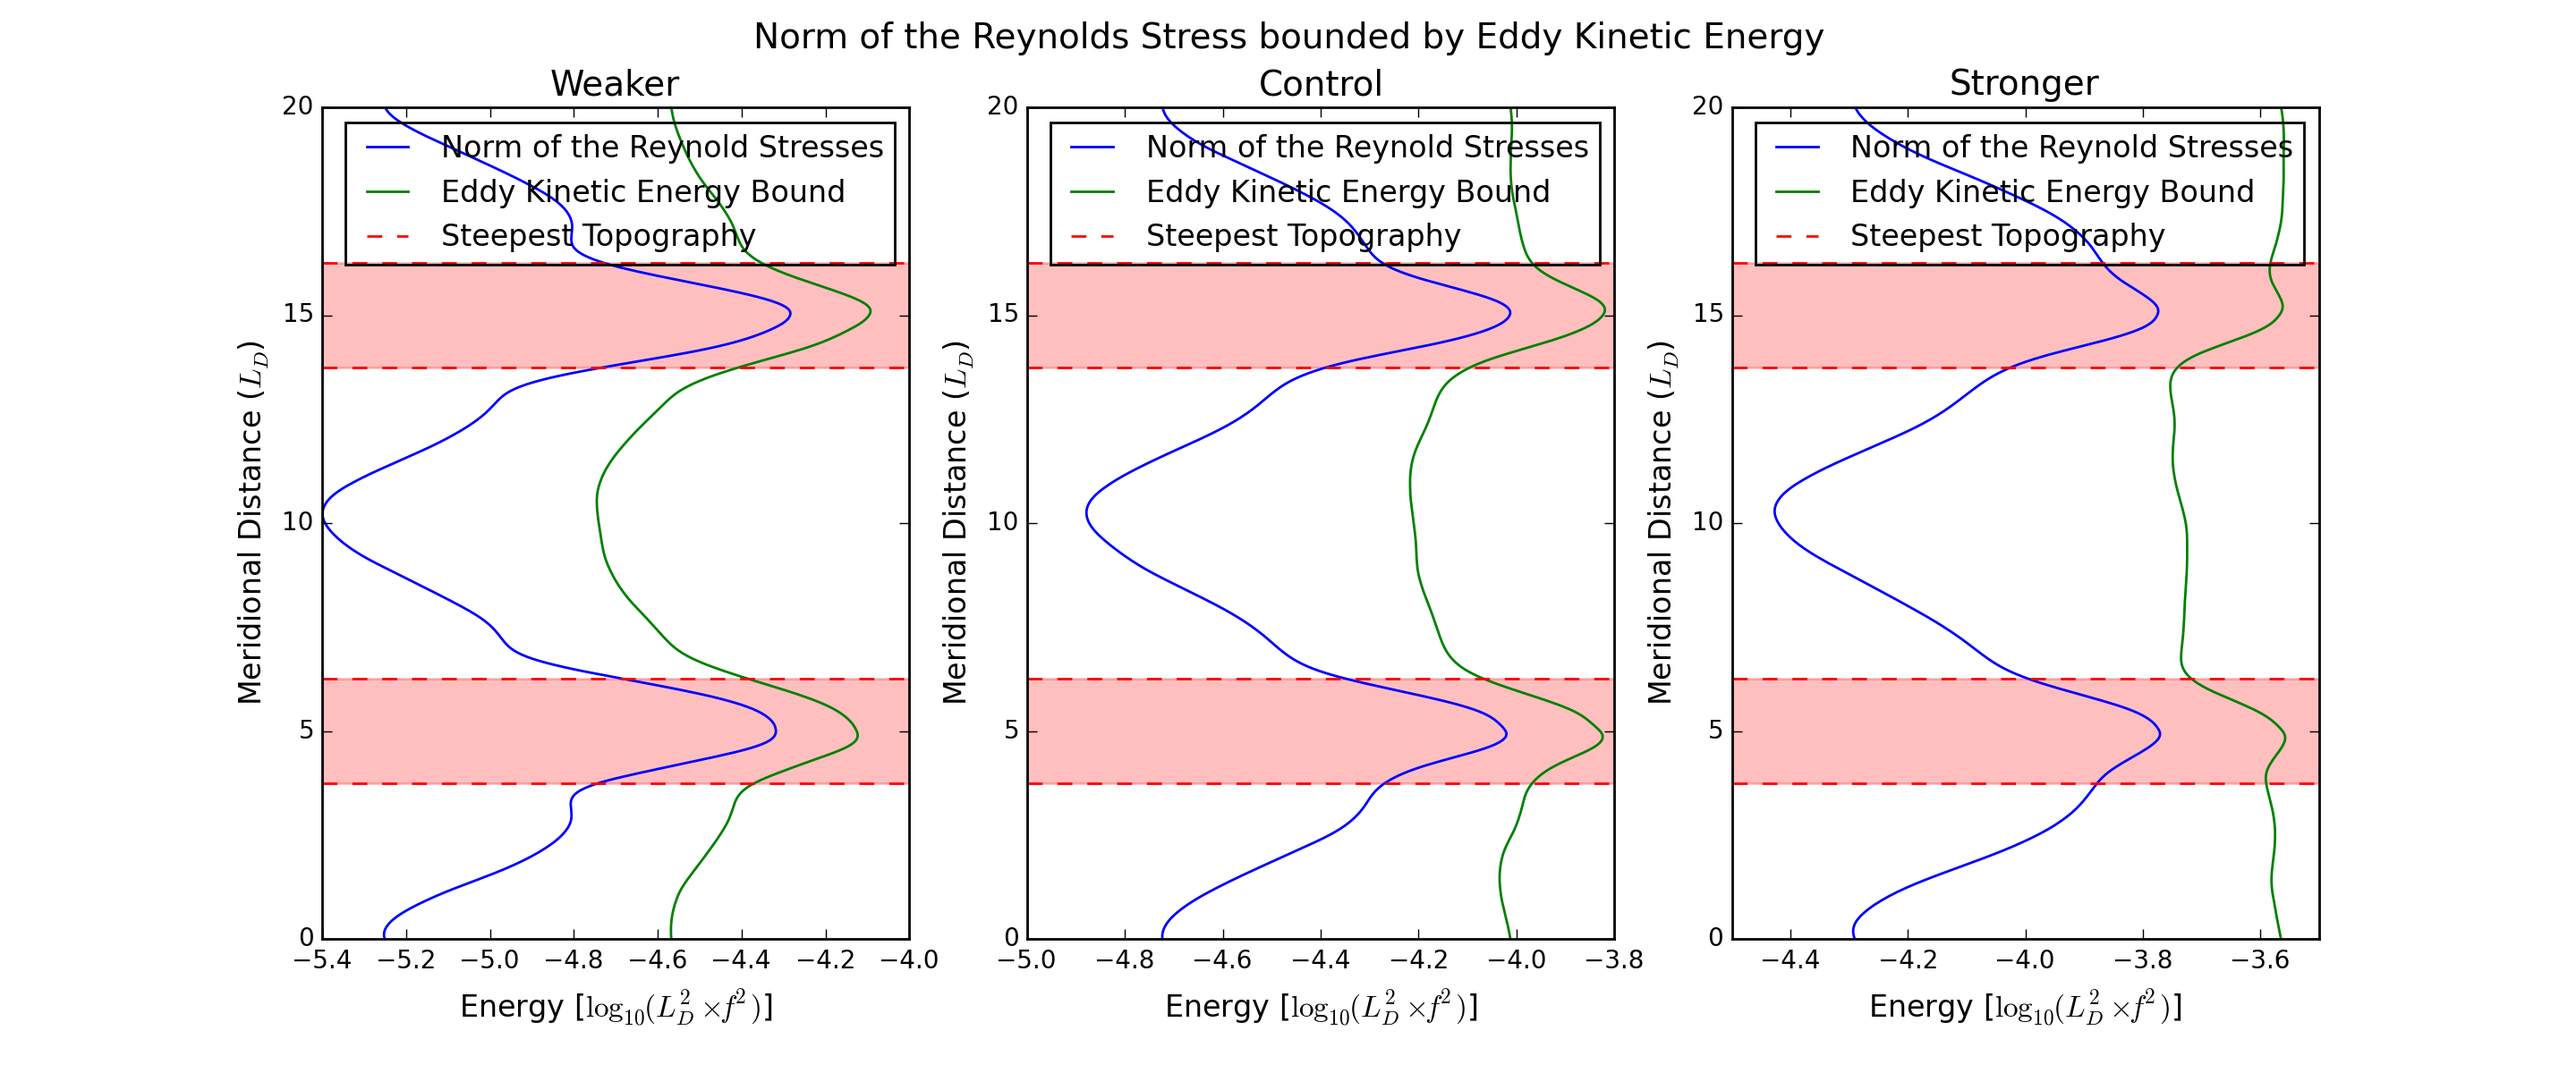
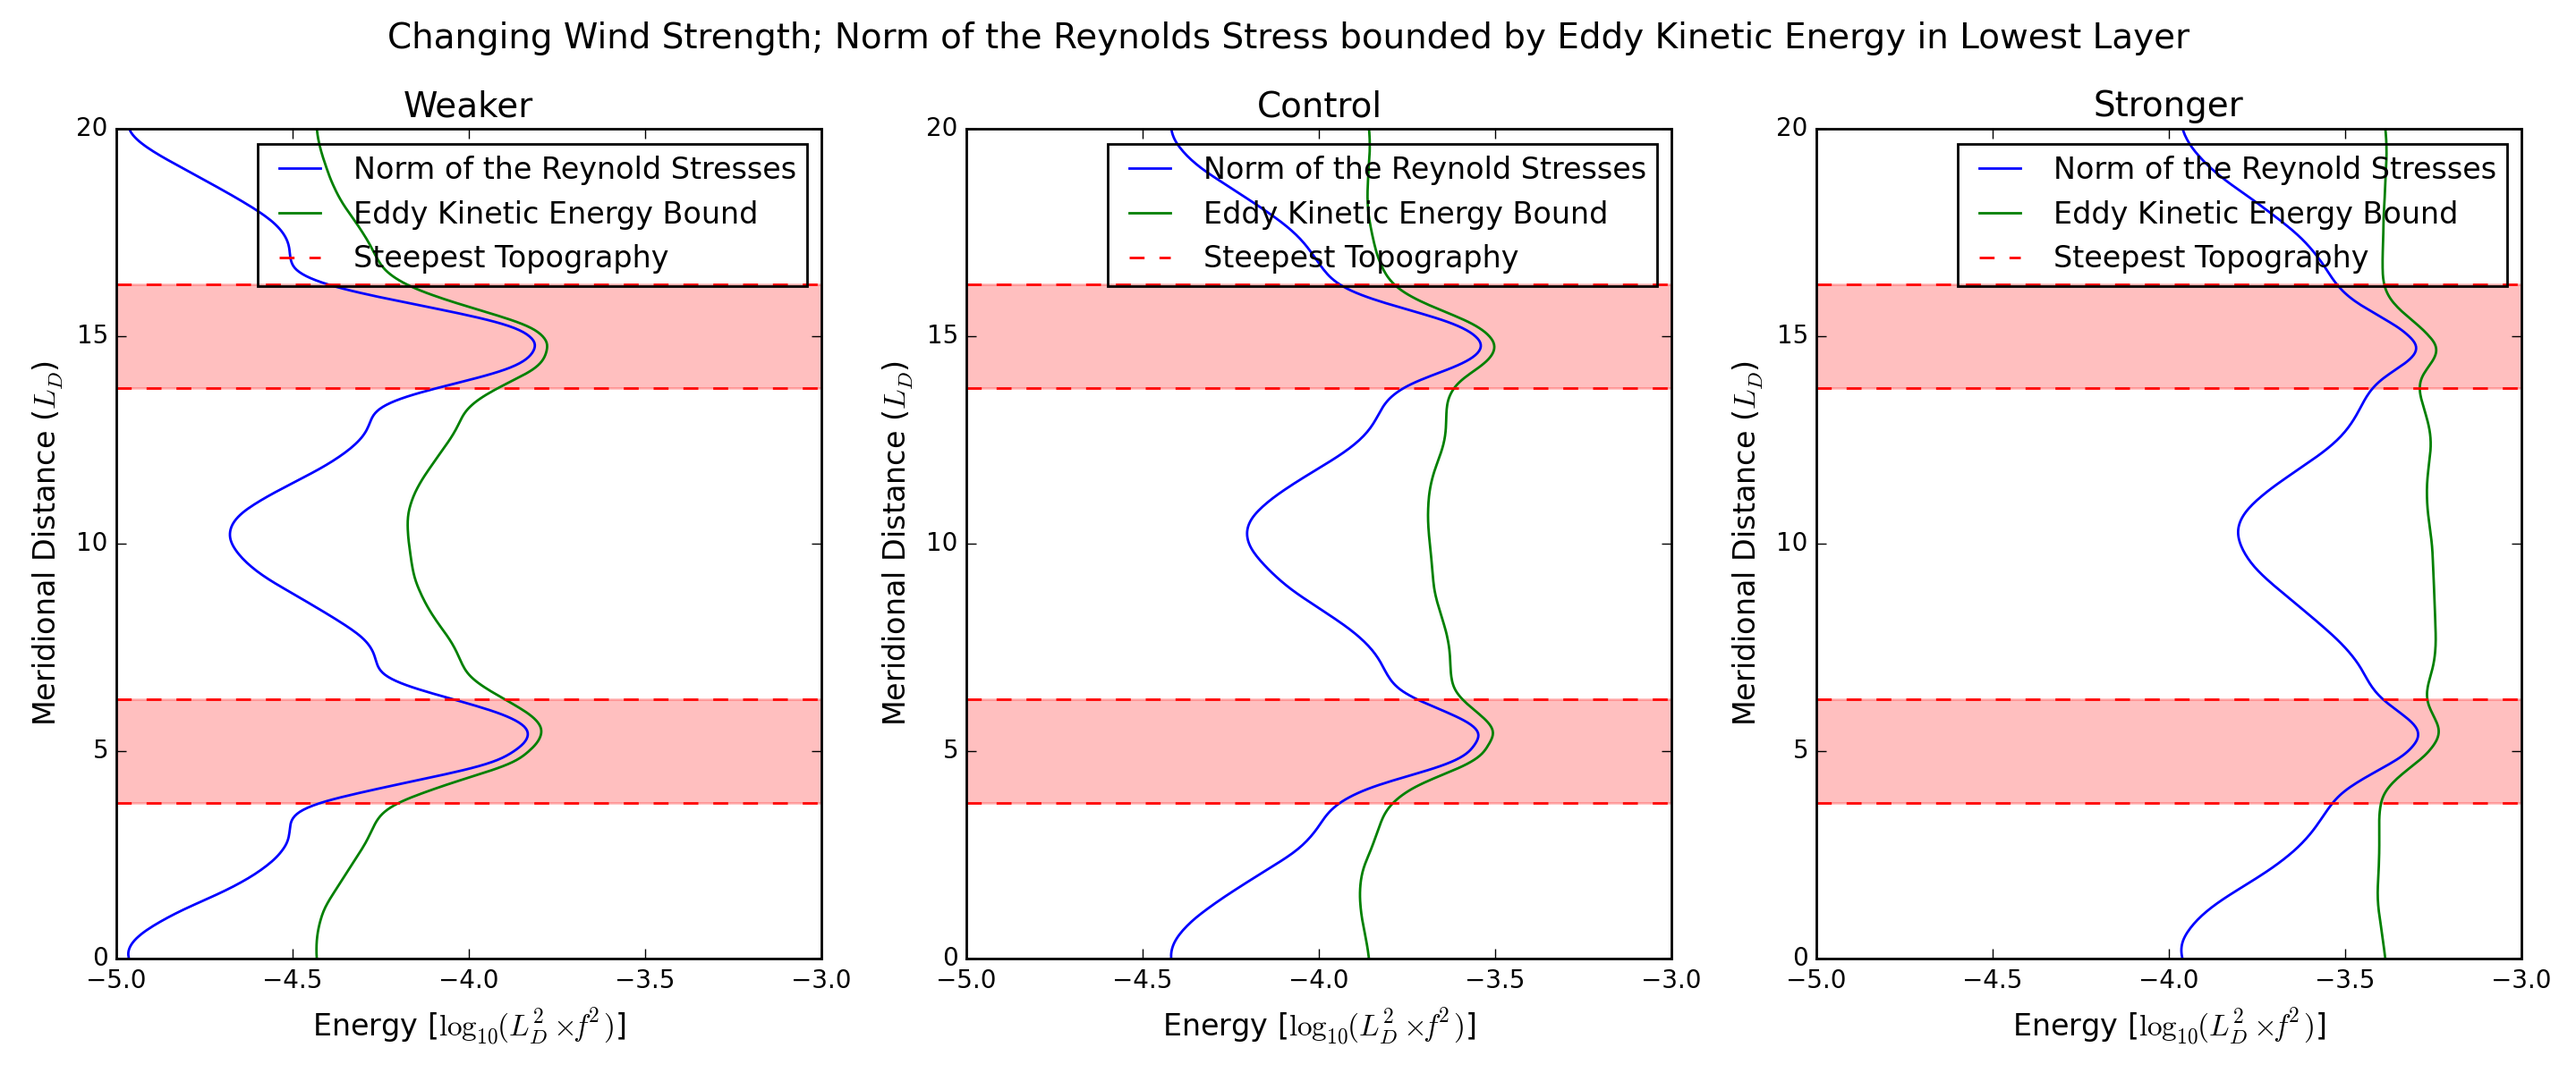
updated some stuff

diff --git a/thesis.tex b/thesis.tex
@@ -91,7 +91,73 @@ bottom=30mm,
 
 \begin{document}
 
-\maketitle
+
+\begin{titlepage}
+	
+	\newcommand{\HRule}{\rule{\linewidth}{0.5mm}} % Defines a new command for the horizontal lines, change thickness here
+	
+	\center % Center everything on the page
+	
+	
+	%----------------------------------------------------------------------------------------
+	%	LOGO SECTION
+	%----------------------------------------------------------------------------------------
+	
+	\includegraphics[width=5cm]{oxcrest}\\[1cm] % Include a department/university logo - this will require the graphicx package
+	
+	%----------------------------------------------------------------------------------------
+	
+	
+	%----------------------------------------------------------------------------------------
+	%	TITLE SECTION
+	%----------------------------------------------------------------------------------------
+	
+	\HRule \\[0.4cm]
+	{ \LARGE \bfseries Ocean Eddy-Mean-flow
+		Interactions over Topography}\\[0.3cm] % Title of your document
+	\HRule \\[1.2cm]
+	
+	%Word Count: 12,348\\[1.0cm] % Minor heading such as course title
+	%{\large \today}\\[3cm] % Date, change the \today to a set date if you want to be precise
+	
+	%----------------------------------------------------------------------------------------
+	%	HEADING SECTIONS
+	%----------------------------------------------------------------------------------------
+	
+	\textsc{\large Oriel College}\\[0.5cm] % Minor heading such as course title
+	\textsc{\LARGE University of Oxford}\\[1.5cm] % Name of your university/college
+	%\textsc{\Large Confirmation of Status}\\[0.5cm] % Major heading such as course name
+	
+	
+	%----------------------------------------------------------------------------------------
+	%	AUTHOR SECTION
+	%----------------------------------------------------------------------------------------
+	
+	\begin{minipage}{0.4\textwidth}
+		\begin{flushleft} \large
+			\emph{Author:}\\
+			Mark Edward  \textsc{Forshaw} % Your name
+		\end{flushleft}
+	\end{minipage}
+	~
+	\begin{minipage}{0.4\textwidth}
+		\begin{flushright} \large
+			\emph{Supervisor:} \\
+			Prof. David P. \textsc{Marshall} % Supervisor's Name
+		\end{flushright}
+	\end{minipage}\\[4cm]
+	
+	% If you don't want a supervisor, uncomment the two lines below and remove the section above
+	%\Large \emph{Author:}\\
+	%John \textsc{Smith}\\[3cm] % Your name
+	
+	
+	
+	
+	\vfill % Fill the rest of the page with whitespace
+	
+\end{titlepage}
+
 
 
 \chapter{Introduction}
@@ -218,7 +284,8 @@ internal processes, which are poor understood, especially in an Ocean with such 
 
 A likely candidate for generating a cyclonic circulation in the Northern hemisphere is
 geostrophic turbulence. A number of studies have demonstrated how, in an eddying system, 
-sloping topography can generate along-topography flows (\cite{treguier1989topographically}, \cite{adcock2000interactions}, \cite{nost2008asymmetry}). Hence, in the absence of stronger
+sloping topography can generate along-topography flows (\cite{bretherton1976two}, \cite{rhines1982theory}, \cite{rhines1982homogenization},
+\cite{treguier1989topographically}, \cite{salmon1998lectures}, \cite{adcock2000interactions}, \cite{nost2008asymmetry}). Hence, in the absence of stronger
 forcing, this effect is likely to become the dominant feature. An obvious question that then
 comes to mind is how turbulent is the Arctic Ocean? Over recent years a large amount  of 
 effort has been made to observe and catalogue eddies in the Arctic
@@ -1460,6 +1527,8 @@ For our study, the equations that will give us the most efficient model whilst c
     \label{energybound}
     \end{equation} 
     
+    \subsection{Potential Vorticity Equations}
+    
     With this we have a formulation for the 
     averaged system which is equivalent to the
     unaveraged system but with the addition of an
@@ -1520,6 +1589,10 @@ For our study, the equations that will give us the most efficient model whilst c
     \end{split}
     \end{equation}
     as used by \cite{greatbatch1998exploring} and \cite{smith1999primitive}.
+    
+    
+    
+    \subsection{Eddy Energy Equation}
     
     Similarly we can take the unweighted average of the
     conservative energy equation, \equref{swlayercorrectenergy}, to give an energy
@@ -1586,9 +1659,9 @@ For our study, the equations that will give us the most efficient model whilst c
                 = 
                 \nthkmean{h_{n}}\thkmean{\nthkres{m}_{n}\thkres{\boldsymbol{u}}_{n}}
                 +\nthkmean{\nthkres{h}_{n} \nthkres{m}_{n}}\thkmean{\boldsymbol{u}}_{n}$.
-                $\nthkmean{\nthkres{h}_{n} \nthkres{m}_{n}}$ is in some sense
-                related to the eddy potential energy and hence we have
-                an evolution equation for the eddy energy. This
+                Since $\nthkmean{\nthkres{h}_{n} \nthkres{m}_{n}}$ is in some sense
+                related to the eddy potential energy we have
+                an equation for the time evolution of eddy energy. This
                 is, however, of limited use without making some assumptions about
                 $\thkmean{\thkres{K}_{n} \thkres{\boldsymbol{u}}_{n}}$, 
                 $\nthkmean{h_{n}}\thkmean{\nthkres{m}_{n}\thkres{\boldsymbol{u}}_{n}}$ 
@@ -1598,6 +1671,8 @@ For our study, the equations that will give us the most efficient model whilst c
                 then we would be able to determine the eddy energy of a system
                 entirely from the mean dynamics.
                 
+                
+                \subsection{Eddy Potential Enstrophy Equation}
               
               Potential enstophy is more straight-forward. The unweighted average of the
               conservative enstrophy equation,
@@ -1686,7 +1761,7 @@ For our study, the equations that will give us the most efficient model whilst c
                 
     
 
-\section{Model Discretisation}
+\section{Model Setup}
 
 Now that we have our governing equations, we need to solve them. To do this we
 discretise the equations onto an Arakawa C-grid and then solve for future times
@@ -1701,6 +1776,8 @@ using the 3rd-order Adams-Bashforth scheme. Next, to satisfy the Courant-Friedri
   placed across the surface, we can re-interpret the pressure fluctuations from a free
   surface as the fluid pushing or pulling on the plate and the resulting force 
   applied to the fluid in reaction. 
+  
+  \subsection{Rigid-Lid Approximation}
   
   In practise, to apply the rigid-lid approximation we add a barotropic pressure
   gradient to the momentum equations. This corrects the time-stepped velocities 
@@ -1735,6 +1812,10 @@ using the 3rd-order Adams-Bashforth scheme. Next, to satisfy the Courant-Friedri
   \end{equation}
   applied to $p$, where bars denote averaging in the $x$ and $y$ directions respectively.
   
+  
+  
+  \subsection{Eddy Deformation Radius and Model Resolution}
+  
   Typical scales in the Arctic are $\sim 10 \mathrm{km}$ for
   the lateral scale of mesoscale eddies,
   $3-5 \mathrm{km}$ for ocean depth, whilst typical speeds are in
@@ -1768,6 +1849,9 @@ using the 3rd-order Adams-Bashforth scheme. Next, to satisfy the Courant-Friedri
   at leading order.
   Finally, there is a similar issue with topography, any choice must be
   translationally symmetric in both the zonal and meridional directions. This limits the choices to sea mounts and ridges.  
+  
+  
+  \subsection{Wind Stress}
     
   Now, to generate dynamically interesting system we manipulate the system using 
   the forcing and
@@ -1799,6 +1883,10 @@ using the 3rd-order Adams-Bashforth scheme. Next, to satisfy the Courant-Friedri
     \left(\tau_{u},\tau_{v}\right)/\left(\rho_{N}h_{N}\right)
   \end{equation*}  in the
   uppermost layer, $n=N$. 
+  
+  
+  
+  \subsection{Bottom Friction}
   
   Now that we have a mechanism to force the system we need a 
   mechanism of dissipating the 
@@ -1879,6 +1967,9 @@ using the 3rd-order Adams-Bashforth scheme. Next, to satisfy the Courant-Friedri
   		one plot is needed. }
   	\label{fig:topostrophy}
   \end{figure}
+  
+  
+  \subsection{Summary of Model Setup and Example Output}
   
   In summary, we have created a model that is simple and fast to run, but still is a
   reasonable representation of the Arctic Ocean. Using this model, we can apply 
@@ -2348,6 +2439,8 @@ balances the zonal eddy stresses, forcing and dissipation whilst
  Overall the eddy
  stresses simply balance anomalous ageostrophic components and is
  likely representing the effect of baroclinic instabilities.
+ These were the results using some typical parameters. Now lets explore parameter space
+ to see how this affects the eddy stresses and hence the along-topography flow.
  
  	
  	\begin{figure}
@@ -2378,9 +2471,7 @@ balances the zonal eddy stresses, forcing and dissipation whilst
  			Note that the x-axis is also scaled to allow the comparative magnitudes
  			of the stresses to be compared.}
  		\label{fig:energybalancewindstrength}
- 	\end{figure}
- 	These were the results using some typical parameters. Now lets explore parameter space
- 	to see how this affects the eddy stresses and hence the along-topography flow. 
+ 	\end{figure} 
  	
  	Firstly, let us tweak the wind stress. Changing parameters such has the 
  	frequency a vortex is spawned, their mean duration or their mean size are all
@@ -2548,22 +2639,142 @@ so that the norm of the full tensor is bound by,
 	-M + K + P & N & 0 \\
 	N & M + K + P & 0\\
 	R & S & 0\\
-	\end{array}\right\| \leq \sqrt{2(K + P)^{2}+4KP+2K^{2}} \leq 2(K+P)}.
+	\end{array}\right\| 
+	\begin{array}{c}
+	\leq \sqrt{2(K + P)^{2}+4KP+2K^{2}} \\
+	\leq 2(K+P).\\
+	\end{array}}
 \end{equation} 
-The bounds \eqref{reynoldbound} and \eqref{formbound} are shown in
+The bounds \eqref{reynoldbound} and \eqref{formbound} for the control case
+are shown in \figref{fig:ekebound}.
+The uppermost layer has a large amount of eddy kinetic energy. Around three
+times as much as is available in lower layer, hence the bound on the Reynolds stresses in
+the uppermost layer is the least interesting. 
+Because of this, and the problems generated in the
+upper most layer by the rigid lid approximation outlined in \secref{momenergybalances}, 
+we will ignore the uppermost layer and only discuss the bottom two layers. 
+As demonstrated in \secref{momenergybalances}, the Reynolds stresses attempt to 
+push the flow along the topography and are balanced by the bottom friction.
+As you would expect, the Reynolds stresses are strongest over the steepest topography.
+However, this also takes the norm of the Reynolds stresses closer to their
+eddy kinetic energy bound (\figref{fig:normovereke}); a situation which is critical for explaining some of the 
+momentum balances in \secref{momenergybalances}.
 
-\hl{Bounds on the eddy stresses.}
 
-\hl{Na\"{\i}ve attempt to parameterise eddies using the 
-results from the previous chapters, depending
-on what can be said about how the eddy stress can
-be characterised and constrained by the topography,
-eddy energy, eddy potential enstrophy etc. }
+\begin{figure}
+	\centering
+	\includegraphics[width=\linewidth]{ekebound}
+	\caption{ }
+	\label{fig:ekebound}
+\end{figure}
 
-\hl{Likely will need to carry the time and spatial
-evolution of eddy energy and eddy potential enstrophy and have
-some sort of step function to turn on and off the
-``GM like" and ``holloway like" parts of the parametrisation at appropriate moments.}
+\begin{figure}
+	\centering
+	\includegraphics[width=\linewidth]{normovereke}
+	\caption{ }
+	\label{fig:normovereke}
+\end{figure}
+
+Firstly, when we change the magnitude of the wind stress we discussed in 
+\secref{momenergybalances} how an increase of factor two in the magnitude of the wind stress
+increases the eddy stresses by a factor of four.  Figures~\ref{fig:ekeboundwindstrength}
+and \ref{fig:normoverekewindstrength}
+demonstrate how the magnitude of the Reynolds stresses is closely linked to the
+amount of eddy kinetic energy. \figref{fig:normoverekewindstrength} plots the
+eddy anisotropy,
+\begin{equation}
+\lambda_{m}=\frac{\sqrt{M^{2}+N^{2}}}{K},
+\end{equation}
+showing a persistent structure for the three wind stresses ranging between 
+$0.3 \lesssim \lambda_{m} \lesssim 0.9$, with the Reynolds stress most constrained
+over the steepest topography ($\lambda_{m} \sim 0.9$).
+
+
+\begin{figure}
+	\centering
+	\includegraphics[width=\linewidth]{ekebound_0_1}
+	\caption{ }
+	\label{fig:ekeboundwindstrength}
+\end{figure}
+
+\begin{figure}
+	\centering
+	\includegraphics[width=\linewidth]{normovereke_0_1}
+	\caption{ }
+	\label{fig:normoverekewindstrength}
+\end{figure}
+
+In contrast, when systems with similar eddy energy but different topography are compared
+the Reynolds stresses give noticeably  different eddy anisotropies,
+$\lambda_{m}$. When we change the depth of the topography, \figref{fig:ekeboundheight}
+shows that for higher topography, the norm of the Reynolds stresses really pushes against
+the kinetic energy bound, whilst for shallower topography it is much less constrained by the
+bound. Taking a look at the  eddy anisotropies for the Reynolds stresses in 
+\figref{fig:normoverekeheight} we can see that for the higher topography the anisotropy
+is much closer to $1$ for more of the domain than in the control case, whilst for the
+ shallower topography, the  anisotropy doesn't go above $0.6$. It is also worth
+ noting that minimum anisotropy is around $0.2 \leq \lambda_{m} \leq 0.3$ in
+ all three of the models whenever the topography is flat, i.e. at the top and bottom of 
+ the ridge. This indicates that the anisotropies are in some way dependent on 
+ the topographic slope. By making the ridge slope narrower or wider we gain a similar
+ result, shown in Figures~\ref{fig:ekeboundwidth} and \ref{fig:normoverekewidth},
+ The model where the ridge has a wider slope has an anisotropy which is much less
+ constrained than when the slope is steeper.  
+
+
+\begin{figure}
+	\centering
+	\includegraphics[width=\linewidth]{ekebound_1_1}
+	\caption{ }
+	\label{fig:ekeboundheight}
+\end{figure}
+
+\begin{figure}
+	\centering
+	\includegraphics[width=\linewidth]{normovereke_1_1}
+	\caption{ }
+	\label{fig:normoverekeheight}
+\end{figure}
+
+
+\begin{figure}
+	\centering
+	\includegraphics[width=\linewidth]{ekebound_2_1}
+	\caption{ }
+	\label{fig:ekeboundwidth}
+\end{figure}
+
+\begin{figure}
+	\centering
+	\includegraphics[width=\linewidth]{normovereke_2_1}
+	\caption{ }
+	\label{fig:normoverekewidth}
+\end{figure}
+
+To bound the form stresses recall that the meridional component of the
+form stress is large, and hence we shall diagnose each component of the
+for the form stress individually. Using the Cauchy-Schwartz Inequality we have
+\begin{equation}
+\frac{1}{\rho_{n}^{2}}\nthkmean{\nthkres{\eta}_{n-\half}\partialdiff[\nthkres{m}_n]{x}}^{2}
+\sim{f^{2}}\nthkmean{\nthkres{\eta}_{n-\half}\nthkres{v}_n}^{2}
+\leq{f^{2}}\nthkmean{\nthkres{\eta}_{n-\half}\nthkres{\eta}_{n-\half}}\nthkmean{\nthkres{v}_n\nthkres{v}_n}
+\end{equation}
+and 
+\begin{equation}
+\frac{1}{\rho_{n}^{2}}\nthkmean{\nthkres{\eta}_{n-\half}\partialdiff[\nthkres{m}_n]{y}}^{2}
+\sim{f^{2}}\nthkmean{\nthkres{\eta}_{n-\half}\nthkres{u}_n}^{2}
+\leq{f^{2}}\nthkmean{\nthkres{\eta}_{n-\half}\nthkres{\eta}_{n-\half}}\nthkmean{\nthkres{u}_n\nthkres{u}_n}.
+\end{equation}
+Combining the two we retain the bound 
+\begin{equation}\left\|
+\begin{array}{cc}
+R & S\\
+\end{array}
+\right\| \lesssim \frac{2 f}{\sqrt{g_{n-\half}}} \sqrt{KP}
+\end{equation}
+
+\hl{Form Stress bounds.}
+
 
 
 \section{\gls{pv} Conservation and Comparison of Mean \glspl{pv}}
@@ -2577,12 +2788,14 @@ some sort of step function to turn on and off the
 	different structures of potential vorticity.}
 
 
+\hl{Eddy Potential Enstrophy Bounds}
+
 \chapter{conclusions and discussions}
 
-Summary of results.
-Future work (keep this as unexplored possible ideas for now)
+\hl{Summary of results.
+Future work (keep this as unexplored possible ideas for now)}
 
-isopycnal model. Outcropping at topography, \cite{dell2010abyssal} and used in \cite{diehl2012working}.
+\hl{isopycnal model. Outcropping at topography,} \cite{dell2010abyssal} \hl{and used in} \cite{diehl2012working}.
 
 	 \printbibliography
 
